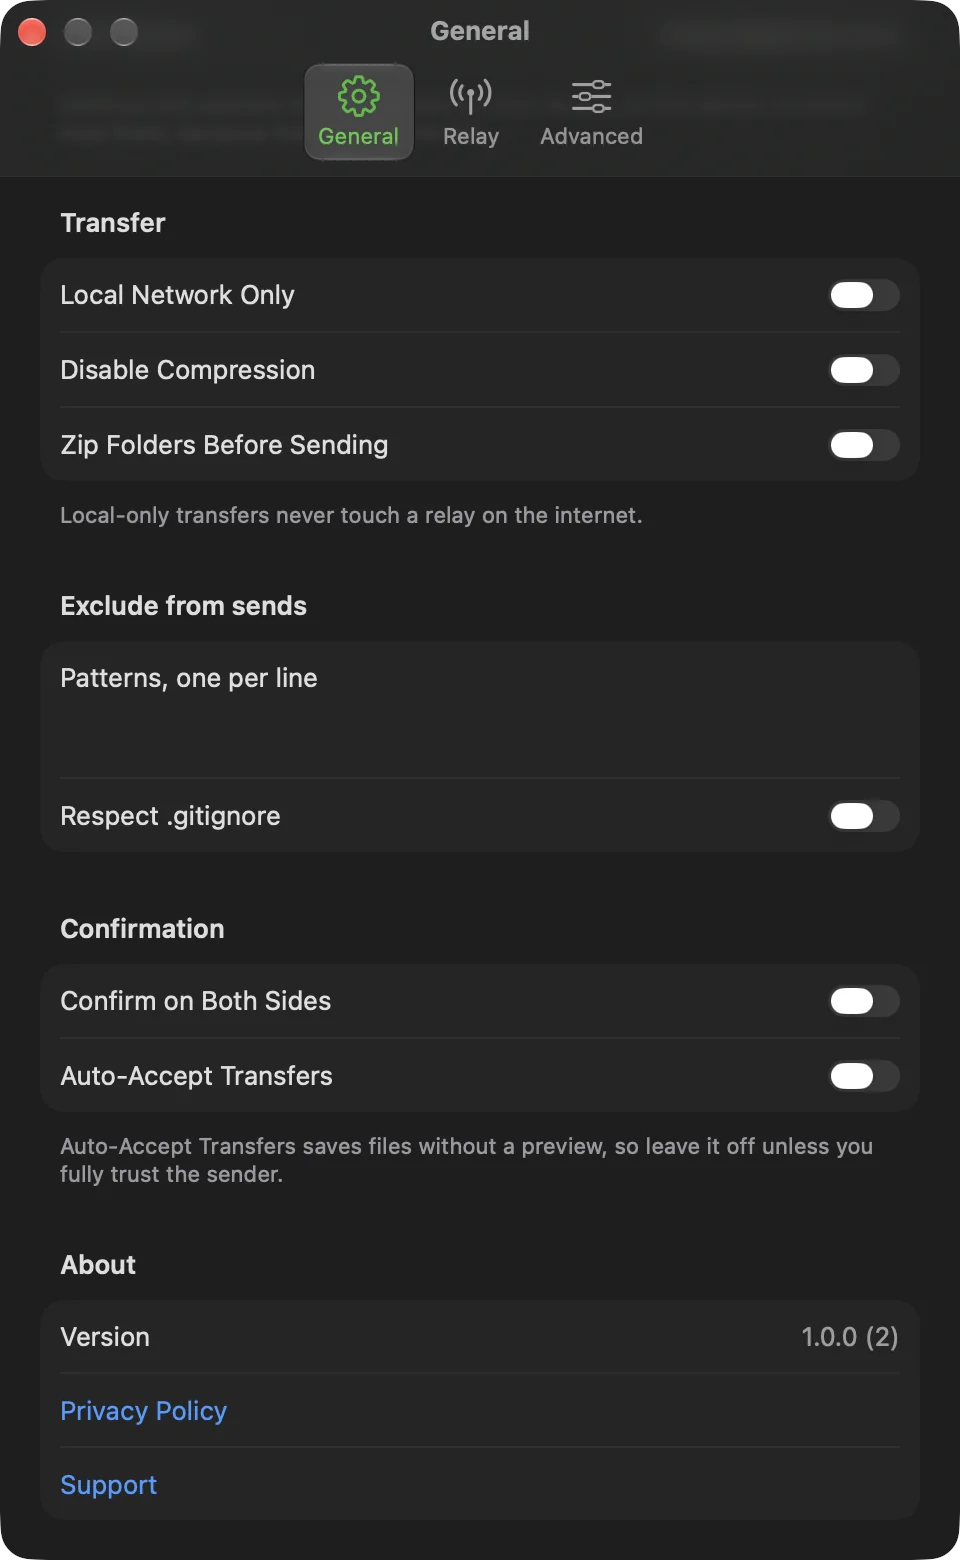
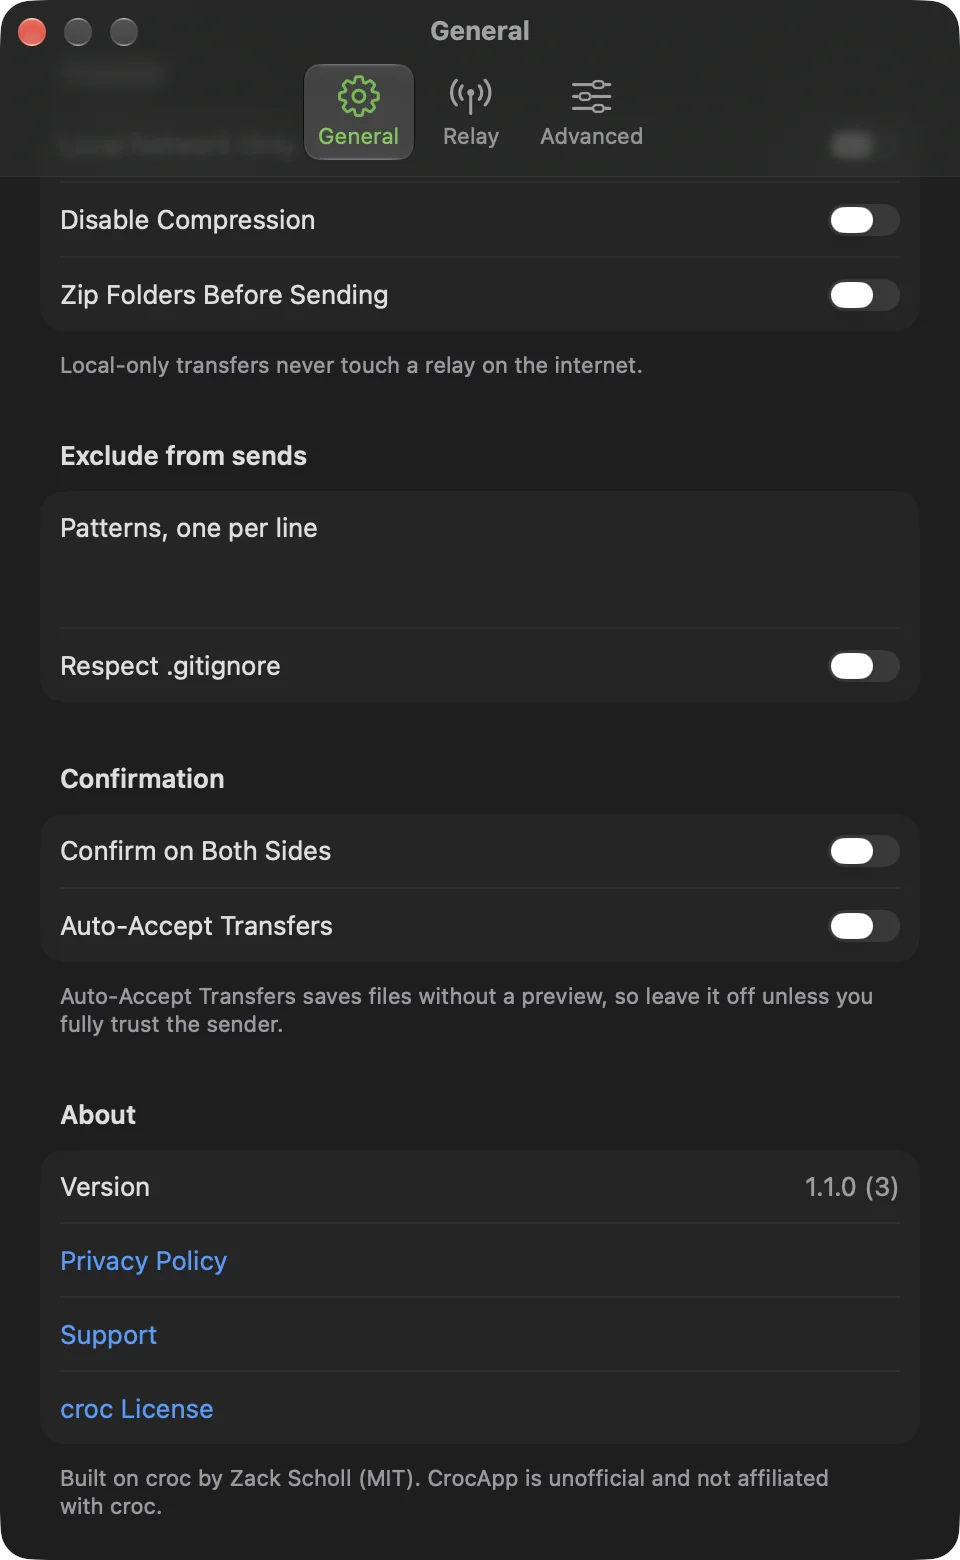
feat(app): croc attribution and license link in About, and a copyright string (#110)
The binary carried no croc attribution or MIT notice, which
`design/brand.md` and the App Store listing promise and croc's license
requires (review guideline 5.2.1 risk).

- About gains a **croc License** link (`AppInfo.crocLicenseURL`, pinned
by `AppInfoTests`) and the approved footer sentence,
`Color.textSecondary` like every Settings footer.
- `NSHumanReadableCopyright` = "Copyright © 2026 Bakir Gracić" on the
app and Direct targets.
- Catalog: the two keys were added by hand. `xcstringstool sync` with
the local Xcode 27.2 rewrote the whole file's formatting and added an
empty key, so I did not commit its output.

AI assistance: substantial

## Verification

- `scripts/verify-swift.sh`: PASS CrocKit (44), PASS CrocApp.
- `scripts/format-swift.sh --lint`, `scripts/verify-design.sh`,
`scripts/verify-docs.sh`: pass.
- `scripts/capture-screenshots.sh mac settings`: SHOTS-OK; light and
dark checked by eye, the About section shows the link and the footer.
- Not verified: iOS rendering (the iPhone Settings capture stops above
About; Xcode previews crash in the Go runtime). Same `Form` section on
both platforms.

## UI changes

Mac Settings, General tab, scrolled to the end:
`web/docs/screenshots/mac/settings-{light,dark}.webp` in this PR.

diff --git a/app/CrocApp/Views/AboutSection.swift b/app/CrocApp/Views/AboutSection.swift
@@ -1,16 +1,26 @@
 import SwiftUI
 
-/// Version and the privacy and support links, last section of Settings
-/// on both platforms.
+/// Version, the privacy and support links, and the croc attribution its MIT
+/// license requires (`design/brand.md`, "Attribution and legal"). Last
+/// section of Settings on both platforms.
 struct AboutSection: View {
     var body: some View {
-        Section("About") {
+        Section {
             LabeledContent("Version", value: AppInfo.versionDescription)
                 .accessibilityElement(children: .combine)
             Link("Privacy Policy", destination: AppInfo.privacyURL)
                 .linkRow()
             Link("Support", destination: AppInfo.supportURL)
                 .linkRow()
+            Link("croc License", destination: AppInfo.crocLicenseURL)
+                .linkRow()
+        } header: {
+            Text("About")
+        } footer: {
+            Text(
+                "Built on croc by Zack Scholl (MIT). CrocApp is unofficial and not affiliated with croc."
+            )
+            .foregroundStyle(Color.textSecondary)
         }
     }
 }

diff --git a/app/CrocAppTests/AppInfoTests.swift b/app/CrocAppTests/AppInfoTests.swift
@@ -12,6 +12,13 @@ import Testing
         expectHTTPSPage(AppInfo.supportURL, path: "/support/")
     }
 
+    @Test func crocLicenseURLIsCrocsLicenseOnGitHub() {
+        let parts = URLComponents(url: AppInfo.crocLicenseURL, resolvingAgainstBaseURL: false)
+        #expect(parts?.scheme == "https")
+        #expect(parts?.host == "github.com")
+        #expect(parts?.path == "/schollz/croc/blob/main/LICENSE")
+    }
+
     // URLComponents, not URL.path: URL.path drops the trailing slash.
     private func expectHTTPSPage(_ url: URL, path: String) {
         let parts = URLComponents(url: url, resolvingAgainstBaseURL: false)

diff --git a/app/CrocApp/Support/AppInfo.swift b/app/CrocApp/Support/AppInfo.swift
@@ -6,6 +6,7 @@ enum AppInfo {
     // Literals checked by AppInfoTests, so there is no fallback to write.
     static let privacyURL = URL(string: "https://crocapp.dev/privacy/")!
     static let supportURL = URL(string: "https://crocapp.dev/support/")!
+    static let crocLicenseURL = URL(string: "https://github.com/schollz/croc/blob/main/LICENSE")!
 
     /// "1.0 (12)"; the build number is dropped when the bundle has none.
     static var versionDescription: String {

diff --git a/docs/knowledge/app-ui-architecture.md b/docs/knowledge/app-ui-architecture.md
@@ -182,7 +182,7 @@ Relay strings use `""` for "croc default" (the `TextField` prompt reads "Public 
 
 `TrustBadge(relay:)` appears in the waiting, transferring and confirm-send views. `HowItWorksView` is the plain-language explainer. Its facts come from `what-is-croc.md`.
 
-**About and privacy link.** `Views/AboutSection.swift` is the last `Form` section of the macOS General tab and of the iOS `SettingsScreen`. It shows the version (`CFBundleShortVersionString` and `CFBundleVersion`) and **Privacy Policy** and **Support** links. The URLs and the version string live in `Support/AppInfo.swift`, and `AppInfoTests` pins their scheme, host and path.
+**About and privacy link.** `Views/AboutSection.swift` is the last `Form` section of the macOS General tab and of the iOS `SettingsScreen`. It shows the version (`CFBundleShortVersionString` and `CFBundleVersion`), **Privacy Policy**, **Support** and **croc License** links, and a footer with the attribution croc's MIT license requires (`design/brand.md`, "Attribution and legal"). The app and Direct targets also set `NSHumanReadableCopyright`. The URLs and the version string live in `Support/AppInfo.swift`, and `AppInfoTests` pins their scheme, host and path.
 
 On macOS, `AppCommands` replaces the `.appInfo` group with an **About CrocApp** button. It calls `NSApplication.orderFrontStandardAboutPanel(options:)` with a linked "Privacy Policy" `.credits` string. The Direct build's `UpdateCommands` still attaches after that group.
 

diff --git a/web/docs/content/guide/settings.md b/web/docs/content/guide/settings.md
@@ -119,7 +119,7 @@ The badge reads your settings. It does not report which path carried the data. A
 
 ## About
 
-**About** shows the app version and links to the privacy policy and support page.
+**About** shows the app version and links to the privacy policy, the support page and croc's license. CrocApp is built on croc by Zack Scholl (MIT), and is unofficial and not affiliated with croc.
 
 ## What is stored
 
